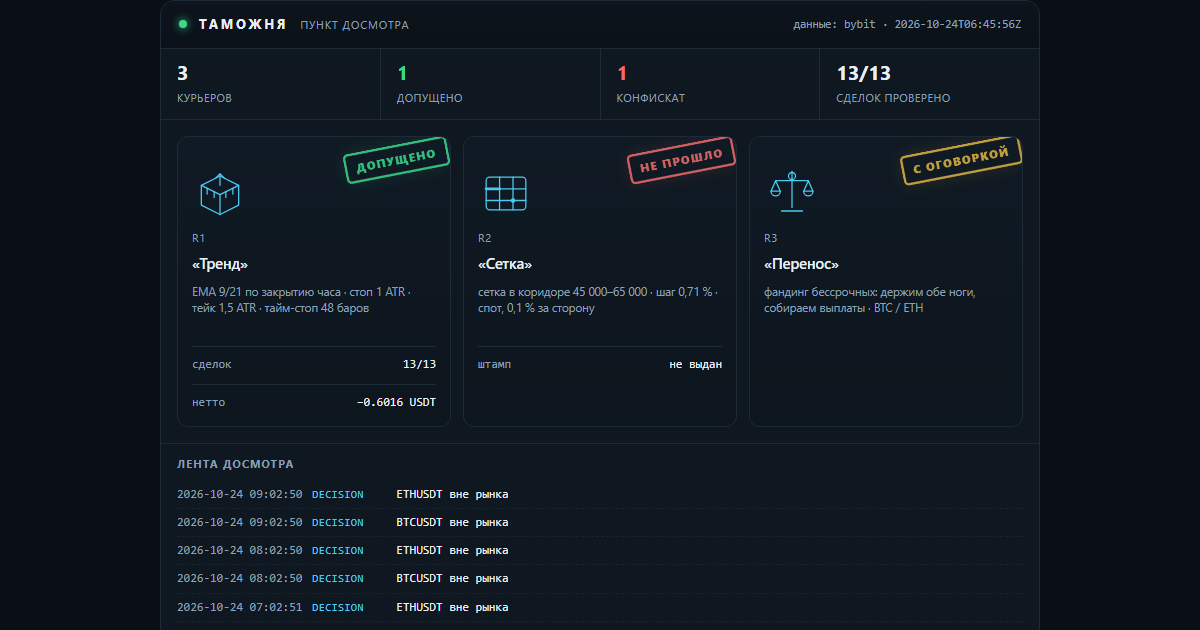
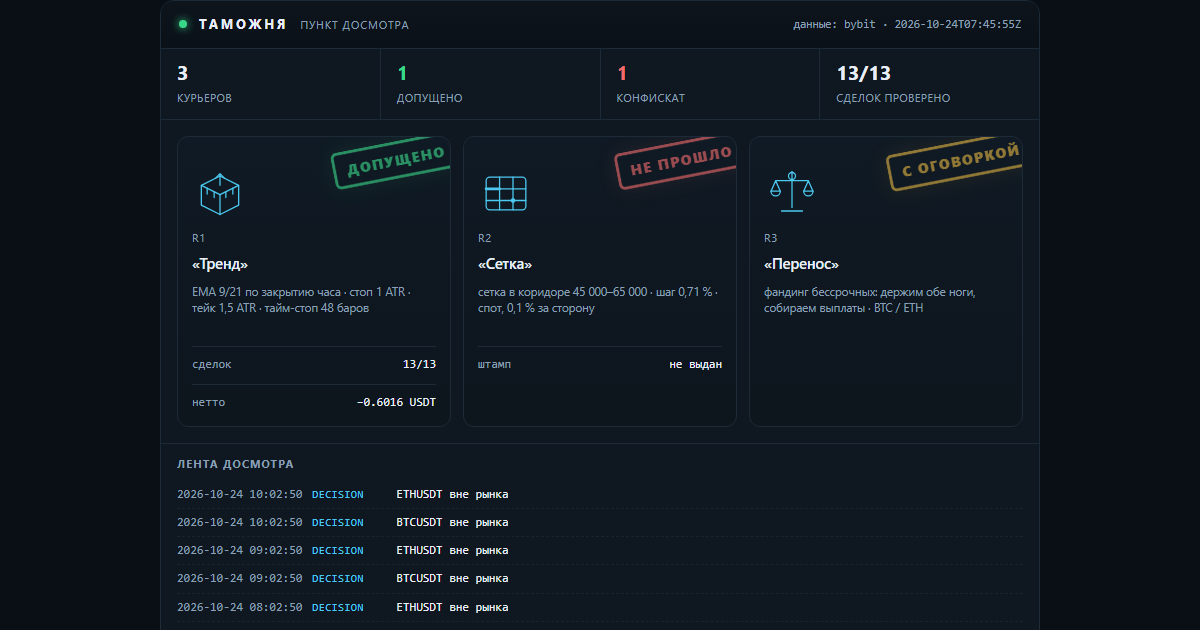
lab: таможня — свежие числа досмотра

Changed region(s): [[0.74, 0.2111, 0.8633, 0.3016], [0.4933, 0.2111, 0.6167, 0.3016], [0.2775, 0.2111, 0.37, 0.3016]]

diff --git a/docs/customs.html b/docs/customs.html
@@ -16,7 +16,7 @@
   <h1><a href="index.html">Gramwright Lab</a></h1>
   <p>Журнал проверки торговых гипотез: что проверяли, что вышло по факту, сколько съели издержки. Числа берутся из журнала стенда. Не инвестиционная рекомендация.</p>
 </header>
-<h1>Таможня</h1><p class="intro">Пункт досмотра заявленных результатов. Стратегии приезжают с грузом обещаний, и каждая проходит проверку по публичным данным биржи: цены существуют, комиссии по тарифу, нетто сходится. Что прошло — получает штамп. Что не прошло — в конфискат, с причиной. Штамп означает «записи подлинные», а не «стратегия прибыльна».</p><p><img src="img/customs.png" alt="Терминал досмотра: три курьера, штампы, лента событий" style="width:100%;height:auto;border:1px solid var(--line);border-radius:10px"></p><p class="c-note">Сверху — тот же терминал, что собирается из журналов: счётчики, эмблемы курьеров, штампы и лента последних событий. Ниже — то же самое текстом, чтобы читалось с телефона и индексировалось поиском.</p><article><h2>R1 «Тренд» <span class="verdict">— <span class="c-ok">допущено</span></span></h2><p><strong>Правило:</strong> EMA 9/21 по закрытию часа · стоп 1 ATR · тейк 1,5 ATR · тайм-стоп 48 баров</p><p><strong>Декларация:</strong> Заявлено до прогона: держать 30 сделок, лимит нотионала 10 % от счёта, стоп дня −1 %. Прибыль не заявлялась — это важно: курьер не обещал доход.</p><p><strong>Проверено по публичным свечам, без ключей:</strong> 13 из 13 сделок. Сумма нетто −0.6016 USDT.</p><ul class="c-chk"><li class="y">BTCUSDT: нетто −0.8746 USDT · комиссии 0.0901 · проверено · с поправкой</li><li class="y">BTCUSDT: нетто −0.5441 USDT · комиссии 0.0896 · проверено</li><li class="y">ETHUSDT: нетто −0.2253 USDT · комиссии 0.0266 · проверено</li><li class="y">ETHUSDT: нетто −0.1513 USDT · комиссии 0.0265 · проверено</li><li class="y">ETHUSDT: нетто +0.1984 USDT · комиссии 0.0262 · проверено</li><li class="y">ETHUSDT: нетто +0.1617 USDT · комиссии 0.0260 · проверено</li><li class="y">ETHUSDT: нетто +0.2645 USDT · комиссии 0.0263 · проверено</li><li class="y">BTCUSDT: нетто +0.6246 USDT · комиссии 0.0897 · проверено</li><li class="y">BTCUSDT: нетто −0.5881 USDT · комиссии 0.0910 · проверено</li><li class="y">ETHUSDT: нетто −0.2403 USDT · комиссии 0.0270 · проверено</li><li class="y">BTCUSDT: нетто +0.6908 USDT · комиссии 0.0908 · проверено</li><li class="y">ETHUSDT: нетто +0.2898 USDT · комиссии 0.0267 · проверено</li><li class="y">ETHUSDT: нетто −0.2077 USDT · комиссии 0.0263 · проверено</li></ul><p class="tags">журнал sha256 e6af57120ac71530… · проверяльщик verify-1</p><p class="c-note">Штамп означает: записи подлинные, а не что стратегия прибыльна. Курьер в минусе, и минус тоже стоит на штампе — иначе это была бы не проверка, а реклама.</p><p class="tags">источник: verify-report.json</p></article><article><h2>R2 «Сетка» <span class="verdict">— <span class="c-bad">не прошло</span></span></h2><p><strong>Правило:</strong> сетка в коридоре 45 000–65 000 · шаг 0,71 % · спот, 0,1 % за сторону</p><p><strong>Декларация:</strong> Заявлено: «44 % урожая уходит бирже в виде комиссий». Кроме того — перевес над простым владением монетой.</p><p><strong>Что сошлось:</strong></p><ul class="c-chk"><li class="y">сами числа пересчитаны и воспроизводятся: коридор 45–65k был активен 23 % всей истории и 28 % последних двух лет</li></ul><p><strong>Что не сошлось:</strong></p><ul class="c-chk"><li class="n">44 % не подтвердилось: при шаге 0,71 % и тарифе 0,1 % комиссия съедает 28,3 % шага. Чтобы получить 44 %, нужен шаг 0,45 % — это около 80 уровней, а не 50</li><li class="n">от урожая доля комиссий 85,5 % за всю историю и 49,6 % за последние два года — тоже не 44 %</li><li class="n">перевес над владением посчитан на тарифе 0,055 %: при нём +1,32 п. п., на розничном 0,1 % — −0,72 п. п. То есть перевес исчезает</li><li class="n">семилетний тест стартовал в сентябре 2019 при биткоине около 10 000 — ниже коридора. Он говорит, что фиксированный коридор не подходит для периода, а не что сетка отстаёт</li></ul><p class="tags">источник: lab_grid.py, пересчёт 17.10.2026</p></article><article><h2>R3 «Перенос» <span class="verdict">— <span class="c-warn">с оговоркой</span></span></h2><p><strong>Правило:</strong> фандинг бессрочных: держим обе ноги, собираем выплаты · BTC / ETH</p><p><strong>Декларация:</strong> Заявлено: около 11,9 % в год от выплат фандинга при просадке выплатной кривой меньше 2 %.</p><p><strong>Что сошлось:</strong></p><ul class="c-chk"><li class="y">выплаты взяты из публичной истории биржи, ключей не нужно: BTC — 7 190 выплат с 25.03.2020, ETH — 6 561 с 21.10.2020</li><li class="y">сумма сходится: +83,4 % и +83,2 % за 6,6 и 6,0 года — те самые ~11,9 % в год</li><li class="y">худшая просадка выплатной кривой: −1,65 % и −1,97 %</li></ul><p><strong>Что не сошлось:</strong></p><ul class="c-chk"><li class="n">оговорка 1: премию сжали — 2021 год дал +38,3 %, 2026 — +1,96 %. Прошлое не повторяется</li><li class="n">оговорка 2: вход-выход стоит около 0,31 %, капитала нужно 1,2 от нотионала, текущий базис −0,082 % против входа</li><li class="n">оговорка 3: риск площадки. История FTX в этой же таблице выглядела так же прилично</li></ul><p class="tags">источник: публичная история фандинга Bybit, замер 17.10.2026</p></article><div class="c-conf"><h3>Конфискат</h3><p><strong>«Сетка»: заявленные 44 % комиссий не подтвердились.</strong> Досмотр показал 28,3 % от шага и 85,5 % от урожая — цифра хуже заявленной по форме, но лучше по смыслу: сетку убивает не размер шага, а то, что урожай почти весь уходит в комиссии. Это и вышло в выпуск — с поправкой, а не с красивой цифрой.</p></div><p class="c-note">Пломба: <code>2026-10-24T06:45:56Z</code> · нотариус FreeTSA · Oct 24 06:45:55 2026 GMT · подпись подтверждена. Манифест скрепляет отчёт проверки, журнал сделок и декларации курьеров: подменишь любую цифру — пломба перестанет сходиться.</p><p class="c-note">Досмотр идёт по публичным минутным свечам и публичной истории фандинга — ключей у проверяющего нет, и он может повторить проверку сам.</p><p class="c-note">Контент образовательный, не является инвестиционной рекомендацией. Торговля связана с риском потери капитала.</p>
+<h1>Таможня</h1><p class="intro">Пункт досмотра заявленных результатов. Стратегии приезжают с грузом обещаний, и каждая проходит проверку по публичным данным биржи: цены существуют, комиссии по тарифу, нетто сходится. Что прошло — получает штамп. Что не прошло — в конфискат, с причиной. Штамп означает «записи подлинные», а не «стратегия прибыльна».</p><p><img src="img/customs.png" alt="Терминал досмотра: три курьера, штампы, лента событий" style="width:100%;height:auto;border:1px solid var(--line);border-radius:10px"></p><p class="c-note">Сверху — тот же терминал, что собирается из журналов: счётчики, эмблемы курьеров, штампы и лента последних событий. Ниже — то же самое текстом, чтобы читалось с телефона и индексировалось поиском.</p><article><h2>R1 «Тренд» <span class="verdict">— <span class="c-ok">допущено</span></span></h2><p><strong>Правило:</strong> EMA 9/21 по закрытию часа · стоп 1 ATR · тейк 1,5 ATR · тайм-стоп 48 баров</p><p><strong>Декларация:</strong> Заявлено до прогона: держать 30 сделок, лимит нотионала 10 % от счёта, стоп дня −1 %. Прибыль не заявлялась — это важно: курьер не обещал доход.</p><p><strong>Проверено по публичным свечам, без ключей:</strong> 13 из 13 сделок. Сумма нетто −0.6016 USDT.</p><ul class="c-chk"><li class="y">BTCUSDT: нетто −0.8746 USDT · комиссии 0.0901 · проверено · с поправкой</li><li class="y">BTCUSDT: нетто −0.5441 USDT · комиссии 0.0896 · проверено</li><li class="y">ETHUSDT: нетто −0.2253 USDT · комиссии 0.0266 · проверено</li><li class="y">ETHUSDT: нетто −0.1513 USDT · комиссии 0.0265 · проверено</li><li class="y">ETHUSDT: нетто +0.1984 USDT · комиссии 0.0262 · проверено</li><li class="y">ETHUSDT: нетто +0.1617 USDT · комиссии 0.0260 · проверено</li><li class="y">ETHUSDT: нетто +0.2645 USDT · комиссии 0.0263 · проверено</li><li class="y">BTCUSDT: нетто +0.6246 USDT · комиссии 0.0897 · проверено</li><li class="y">BTCUSDT: нетто −0.5881 USDT · комиссии 0.0910 · проверено</li><li class="y">ETHUSDT: нетто −0.2403 USDT · комиссии 0.0270 · проверено</li><li class="y">BTCUSDT: нетто +0.6908 USDT · комиссии 0.0908 · проверено</li><li class="y">ETHUSDT: нетто +0.2898 USDT · комиссии 0.0267 · проверено</li><li class="y">ETHUSDT: нетто −0.2077 USDT · комиссии 0.0263 · проверено</li></ul><p class="tags">журнал sha256 f92838b4e705104b… · проверяльщик verify-1</p><p class="c-note">Штамп означает: записи подлинные, а не что стратегия прибыльна. Курьер в минусе, и минус тоже стоит на штампе — иначе это была бы не проверка, а реклама.</p><p class="tags">источник: verify-report.json</p></article><article><h2>R2 «Сетка» <span class="verdict">— <span class="c-bad">не прошло</span></span></h2><p><strong>Правило:</strong> сетка в коридоре 45 000–65 000 · шаг 0,71 % · спот, 0,1 % за сторону</p><p><strong>Декларация:</strong> Заявлено: «44 % урожая уходит бирже в виде комиссий». Кроме того — перевес над простым владением монетой.</p><p><strong>Что сошлось:</strong></p><ul class="c-chk"><li class="y">сами числа пересчитаны и воспроизводятся: коридор 45–65k был активен 23 % всей истории и 28 % последних двух лет</li></ul><p><strong>Что не сошлось:</strong></p><ul class="c-chk"><li class="n">44 % не подтвердилось: при шаге 0,71 % и тарифе 0,1 % комиссия съедает 28,3 % шага. Чтобы получить 44 %, нужен шаг 0,45 % — это около 80 уровней, а не 50</li><li class="n">от урожая доля комиссий 85,5 % за всю историю и 49,6 % за последние два года — тоже не 44 %</li><li class="n">перевес над владением посчитан на тарифе 0,055 %: при нём +1,32 п. п., на розничном 0,1 % — −0,72 п. п. То есть перевес исчезает</li><li class="n">семилетний тест стартовал в сентябре 2019 при биткоине около 10 000 — ниже коридора. Он говорит, что фиксированный коридор не подходит для периода, а не что сетка отстаёт</li></ul><p class="tags">источник: lab_grid.py, пересчёт 17.10.2026</p></article><article><h2>R3 «Перенос» <span class="verdict">— <span class="c-warn">с оговоркой</span></span></h2><p><strong>Правило:</strong> фандинг бессрочных: держим обе ноги, собираем выплаты · BTC / ETH</p><p><strong>Декларация:</strong> Заявлено: около 11,9 % в год от выплат фандинга при просадке выплатной кривой меньше 2 %.</p><p><strong>Что сошлось:</strong></p><ul class="c-chk"><li class="y">выплаты взяты из публичной истории биржи, ключей не нужно: BTC — 7 190 выплат с 25.03.2020, ETH — 6 561 с 21.10.2020</li><li class="y">сумма сходится: +83,4 % и +83,2 % за 6,6 и 6,0 года — те самые ~11,9 % в год</li><li class="y">худшая просадка выплатной кривой: −1,65 % и −1,97 %</li></ul><p><strong>Что не сошлось:</strong></p><ul class="c-chk"><li class="n">оговорка 1: премию сжали — 2021 год дал +38,3 %, 2026 — +1,96 %. Прошлое не повторяется</li><li class="n">оговорка 2: вход-выход стоит около 0,31 %, капитала нужно 1,2 от нотионала, текущий базис −0,082 % против входа</li><li class="n">оговорка 3: риск площадки. История FTX в этой же таблице выглядела так же прилично</li></ul><p class="tags">источник: публичная история фандинга Bybit, замер 17.10.2026</p></article><div class="c-conf"><h3>Конфискат</h3><p><strong>«Сетка»: заявленные 44 % комиссий не подтвердились.</strong> Досмотр показал 28,3 % от шага и 85,5 % от урожая — цифра хуже заявленной по форме, но лучше по смыслу: сетку убивает не размер шага, а то, что урожай почти весь уходит в комиссии. Это и вышло в выпуск — с поправкой, а не с красивой цифрой.</p></div><p class="c-note">Пломба: <code>2026-10-24T07:45:55Z</code> · нотариус FreeTSA · Oct 24 07:45:55 2026 GMT · подпись подтверждена. Манифест скрепляет отчёт проверки, журнал сделок и декларации курьеров: подменишь любую цифру — пломба перестанет сходиться.</p><p class="c-note">Досмотр идёт по публичным минутным свечам и публичной истории фандинга — ключей у проверяющего нет, и он может повторить проверку сам.</p><p class="c-note">Контент образовательный, не является инвестиционной рекомендацией. Торговля связана с риском потери капитала.</p>
 <footer class="site">
   Код стенда и аудитора: <a href="https://github.com/XSlaidx/truth-engine">XSlaidx/truth-engine</a>
   &middot; <a href="graveyard.html">кладбище правил</a>

diff --git a/docs/strategiya-2026-10.md b/docs/strategiya-2026-10.md
@@ -1,0 +1,60 @@
+# Стратегия: информационное развитие вместо продажи услуг
+
+Записано 24.10.2026 по решению владельца: **сориентироваться не на продажу, а на информационное
+развитие; то, что работает, использовать для себя и не показывать всем; зарабатывать позже на видео.**
+
+## Главный принцип: метод публичен, альфа приватна
+
+| Публично (информационное развитие) | Приватно (для себя) |
+|---|---|
+| как проверять результат: кластеры, границы O'Brien–Fleming, зеркальный тест, случайные входы | пороги входа и параметры работающих правил |
+| разборы провалов и собственных ошибок | список символов и состав корзины |
+| чек-листы («три вопроса к чужому результату») | живой P&L работающих контуров и книги |
+| кладбище гипотез: что проверили и что не воспроизвелось | реестр с хешами конфигураций |
+| как считать издержки, почему быстрые правила проигрывают спреду | размер позиций, стопы, тейки, время удержания |
+| метки времени и проверка целостности журналов | что именно мы торгуем и на каком счёте |
+
+Правило простое: **публикуем то, что помогает читателю не потерять деньги; не публикуем то, что
+помогает ему скопировать наш рабочий контур.** Разбор провала учит. Параметры удачного правила
+не учат — они отдают сделанное.
+
+## Что меняется на сайте (21 страница)
+
+| страница | сейчас | что делаем |
+|---|---|---|
+| `/` (Услуги) | прайс и офферы | переписать в «Лаборатория: что исследуем, что опровергли, как проверяем»; прайс убрать |
+| `/audit/` | «Аудит и разборы», цены | снять из навигации; оставить как страницу метода без цен (или скрыть) |
+| `/audit/checklist/`, `/audit/self-case/`, `/audit/three-stops/` | разборы | **оставить** — это и есть информационный продукт |
+| `/lab/graveyard.html` | кладбище гипотез | **оставить и развивать** — сильнейший материал: видно, что мы не подгоняем |
+| `/lab/contest/` | живой P&L, порог 0,60, состав 32 символов | **убрать числа работающего контура**: оставить «контур идёт, правило заморожено, доказательство собирается», без порога, символов и P&L |
+| `/lab/stand/` | эквити и P&L стенда | оставить механику и число прогонов; **убрать P&L и эквити** |
+| `/lab/seal/`, `/lab/research/`, `/lab/funding/`, `/lab/tradfi-survey/` | метод и разборы | **оставить как есть** |
+| `/demo/` (Продукты) | демо-продукты | оставить только как «что умеем», без обещаний дохода |
+| `/archive/` (Блог) | посты | **развивать** — основная площадка развития |
+
+## Что уже готово для видео (числа считаются из файлов, не выдумываются)
+
+1. **«Минус 0,53 R оказался нашим багом»** — золото, пробой азиатского диапазона. Есть: −0,53 →
+   после исправления +0,004 брутто, t −1,22, синтетика 23,9/16,3/59,8 против аналитики 24/16/60,
+   зеркальный тест. Материал полный.
+2. **«Почему −34 сигмы оказались подозрением, а не находкой»** — про то, что неправдоподобно
+   большой результат сначала проверяют на ошибку. Материал: тот же кейс, другая подача.
+3. **«Быстрые правила проигрывают спреду»** — издержки FX против хода (11,8–22,9 % σ), издержки
+   крипты, почему 15-минутные таймфреймы не окупаются. Данные есть.
+4. **«Три вопроса к чужому результату»** — чек-лист аудита: где выборка, где контроль, где издержки.
+   Готово в виде страницы, надо переложить в видео.
+5. **«Кладбище гипотез»** — серия: каждая гипотеза, почему умерла. Формат подписной серии.
+6. **«Незапланированный взгляд стоит альфы»** — почему мы не смотрим на z до объявленного просмотра.
+   Уникальная тема, мало кто объясняет это публично.
+
+## Метрика развития (не продажи)
+
+- сколько читателей проверили наши числа по ссылкам на журналы (пломбы, `/lab/seal/`);
+- просмотры и удержание видео;
+- число разборов, где мы признали свою ошибку — это репутационный капитал, а не слабость.
+
+## Что остаётся под замком
+
+Пороги, символы, размеры, живой P&L работающих контуров, состав корзины, реестр с параметрами.
+Доказательность при этом не страдает: журналы по-прежнему пломбируются, метод описан, проверка
+возможна — но копировать рабочий контур по нашим страницам нельзя.
